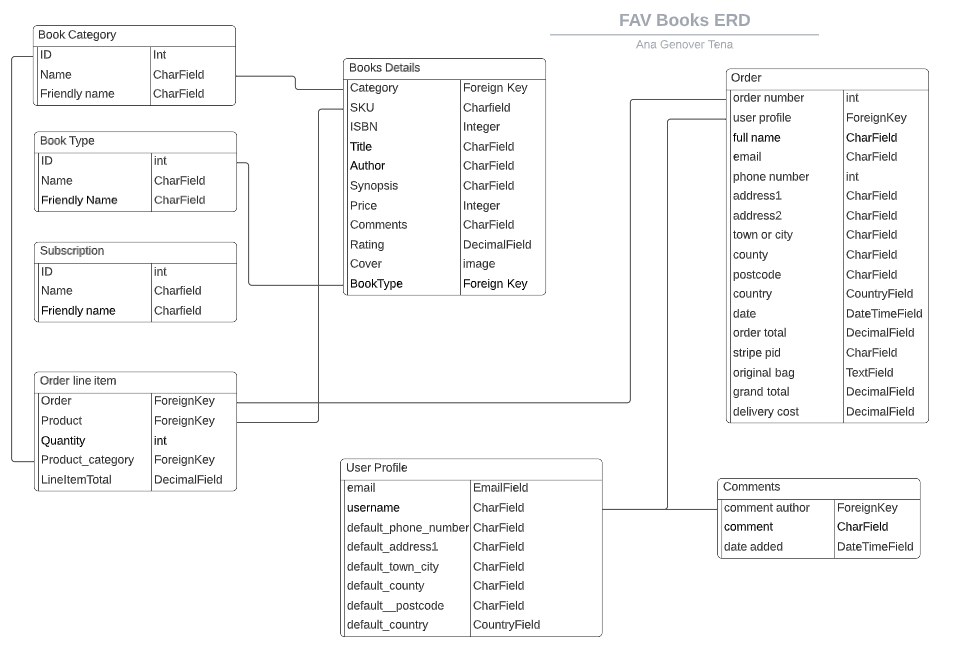
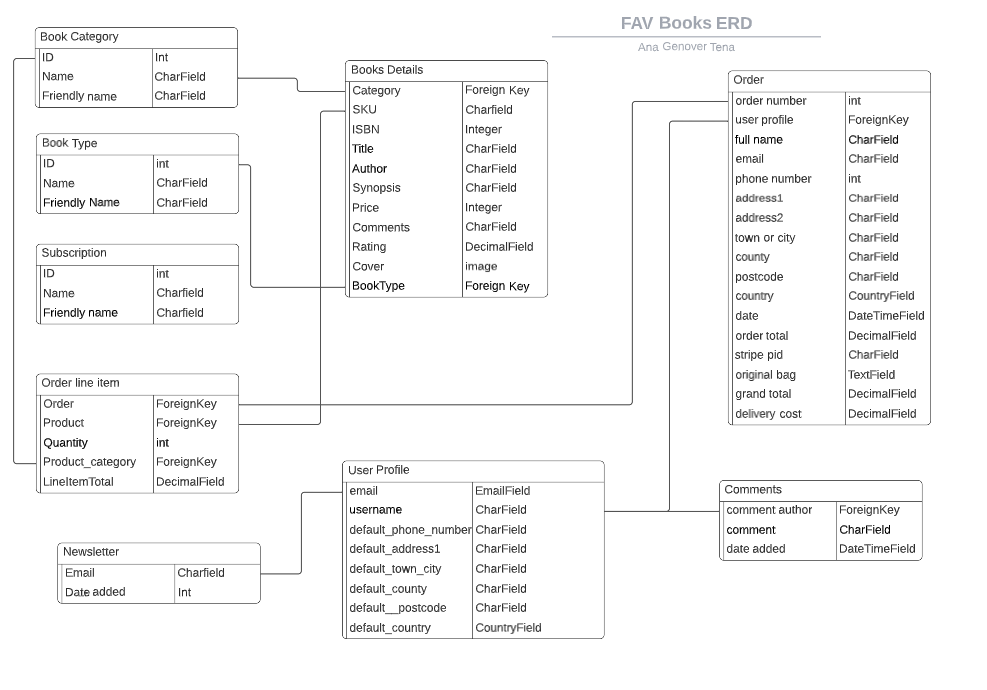
updated readme with screenshots of validators and updated ERD screenshot as well

diff --git a/README.md b/README.md
@@ -298,18 +298,22 @@ No more bugs have been found.
 #### **Validator Testing**
 
 - Used [PEP8online.com](http://pep8online.com/) to validate Python code.
+
+![pep8](media/general/pep8.png)
+
 - Used [W3C](https://validator.w3.org/#validate_by_input) to validate HTML and CSS code
+
+![w3c](media/general/w3c.png)
+
 - Used [JSHint](https://jshint.com/) to validate JavaScript code
+
+![jshint](media/general/js.png)
+
 
 
 ##### **Remaining errors**
-- The file settings.py in the favbooks-v3 folder has 4 error error codes E501 in lines 144, 147, 150 and 153 stating the lines are too long. I have left as they are because the referred lines are password validators and can't be broken.
 
-![w3error1](media/general/settings-errors.png)
-
-- The page https://favbooks-v3.herokuapp.com/newsletter/newsletter_signup/ shows 6 errors in W3C validator but this is related to the form created in form.py in the "newsletter app" so I have researched and couldn't find a solution. Also the error relates to stray start tag <tr> <th> and <td> in one hand and in the other hand stray end tag <tr> <th> and <td>, which are actually matching.
-
-![w3error2](media/general/validator-error.png)
+There are no remaining errors
 
 
 ## **Technologies Used**
